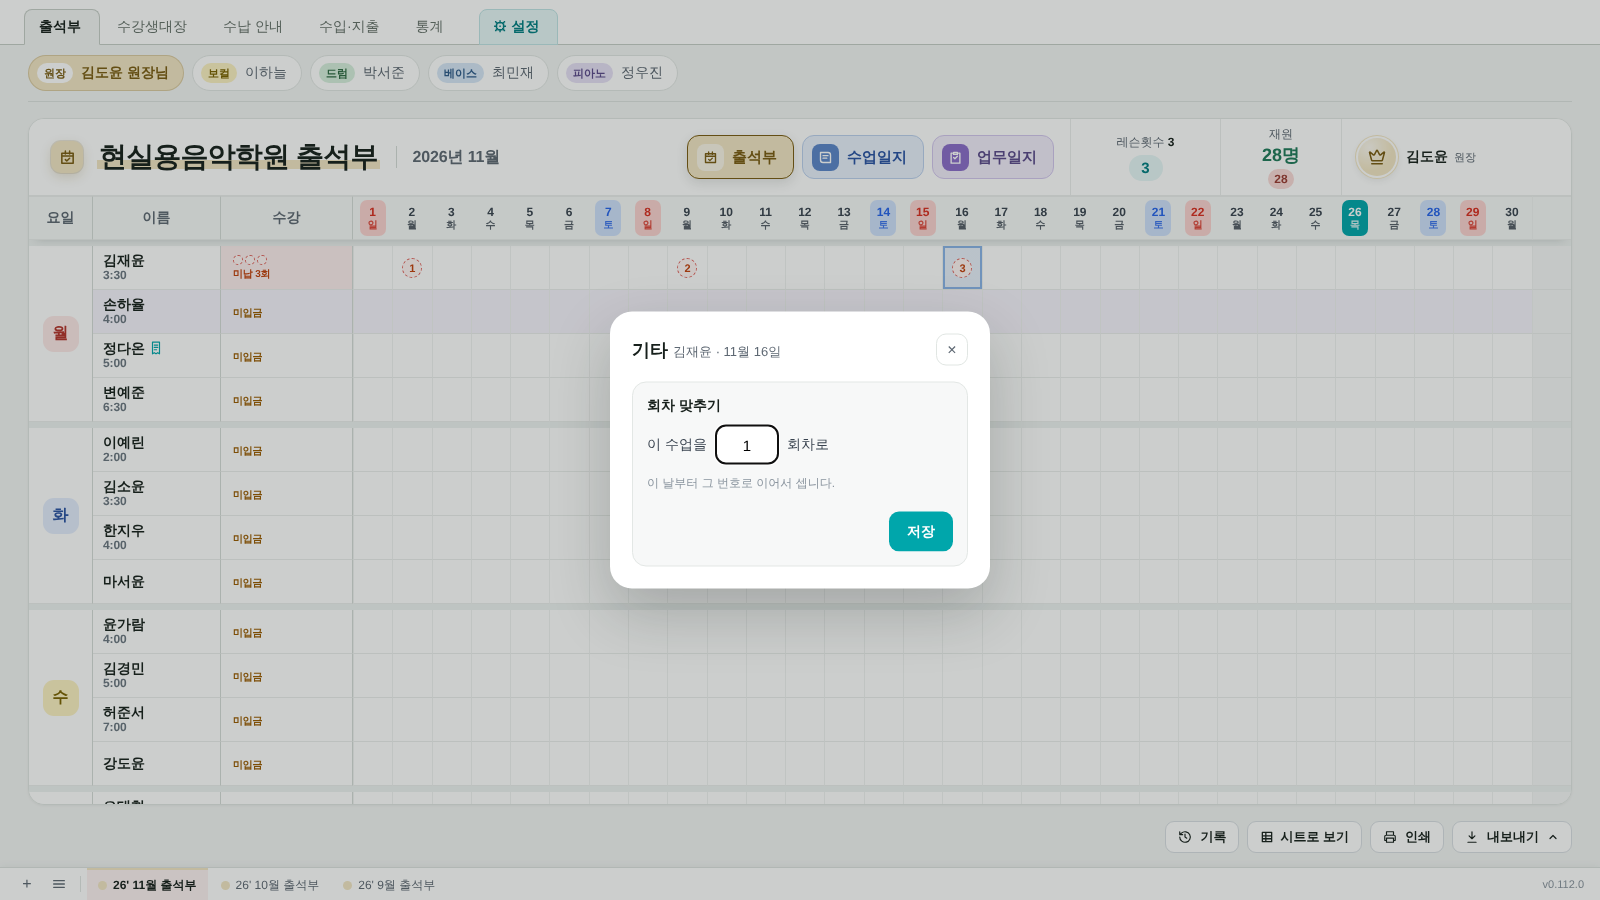
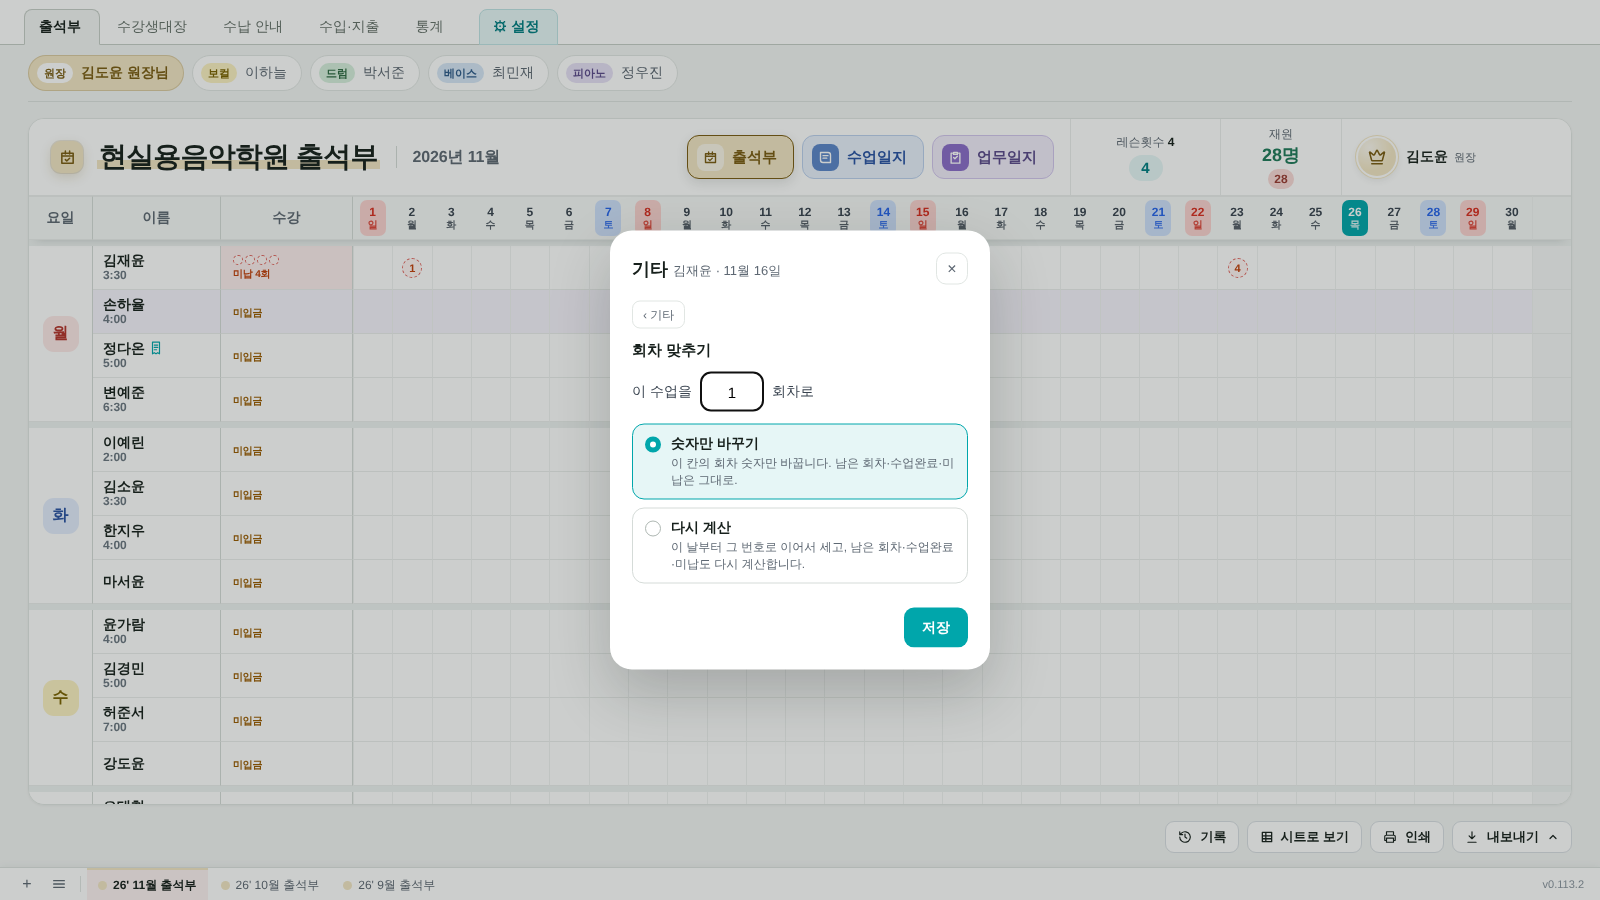
v0.113.2 출석부 칸 변경은 모두 기록
Claude-Session: https://claude.ai/code/session_014d9zEvtY8svh7Lt1eQQH6C

Changed region(s): [[0.375, 0.2489, 0.625, 0.7778]]

diff --git a/design/attendance.html b/design/attendance.html
@@ -246,7 +246,7 @@ html.bwp section[aria-label="출석부"] [style*="dashed"]{border-color:#000!imp
     <sc-for list="{{sheetTabs}}" as="t" hint-placeholder-count="5">
       <button type="button" class="{{t.cls}}" draggable="true" onDragStart="{{t.dragStart}}" onDragOver="{{t.dragOver}}" onDragLeave="{{t.dragLeave}}" onDrop="{{t.drop}}" onDragEnd="{{t.dragEnd}}" onClick="{{t.pick}}" onContextMenu="{{t.ctx}}" aria-pressed="{{t.on}}" style="{{t.style}}"><span style="{{t.dot}}"></span>{{t.name}}</button>
     </sc-for>
-    <span style="margin-left: auto; flex: none; align-self: center; padding: 0 4px 0 16px; font-size: 11px; color: #8A949E; white-space: nowrap">v0.113.1</span>
+    <span style="margin-left: auto; flex: none; align-self: center; padding: 0 4px 0 16px; font-size: 11px; color: #8A949E; white-space: nowrap">v0.113.2</span>
   </nav>
   <sc-if value="{{th.open}}" hint-placeholder-val="{{ false }}">
     <div class="noprint" onMouseDown="{{th.close}}" style="position: fixed; inset: 0; z-index: 70; background: rgba(23, 32, 28, 0.28)"></div>
@@ -3033,12 +3033,12 @@ class Component extends DCLogic {
     let a = {}, b = {};
     try { a = JSON.parse(oldJs || '{}') || {}; } catch (e) {}
     try { b = JSON.parse(newJs || '{}') || {}; } catch (e) {}
-    const KEY = /^(?:p|s|u|dp|L|LD|R|nm|n)?\d+$/, out = [], now = Date.now(), tab = this.tKey() || '', who = (this.writerName() || '원장님') + (this._logTag ? ' · ' + this._logTag : '');
+    const KEY = /^(?!by\d)/, out = [], now = Date.now(), tab = this.tKey() || '', who = (this.writerName() || '원장님') + (this._logTag ? ' · ' + this._logTag : '');
     this._logTag = '';
-    const nameOf = rid => { const s = this.students().find(x => String(x.id) === String(rid)); return s ? s.name.replace('$', '') : rid; };
+    const nameOf = rid => { if (rid === '_mk') return '보강 시간'; if (rid === '_ml') return '보강 날짜'; const s = this.students().find(x => String(x.id) === String(rid)); return s ? s.name.replace('$', '') : rid; };
     const keys = (x, y) => Object.keys(Object.assign({}, x || {}, y || {}));
     keys(a, b).forEach(ym => keys(a[ym], b[ym]).forEach(sk => { const A0 = (a[ym] || {})[sk] || {}, B0 = (b[ym] || {})[sk] || {};
-      keys(A0, B0).forEach(rid => { if (rid === '_mk' || rid === '_ml') return; const r1 = A0[rid] || {}, r2 = B0[rid] || {};
+      keys(A0, B0).forEach(rid => { const r1 = A0[rid] || {}, r2 = B0[rid] || {};
         keys(r1, r2).forEach(k => { if (!KEY.test(k)) return; const v1 = r1[k] == null ? '' : String(r1[k]), v2 = r2[k] == null ? '' : String(r2[k]);
           if (v1 !== v2) out.push({ id: 'C' + now + '-' + out.length, at: now, who: who, tab: tab, ym: ym, rid: rid, name: nameOf(rid), k: k, a: v1, b: v2 }); }); }); }));
     if (!out.length) return;

diff --git a/design/src/attendance.dc.html b/design/src/attendance.dc.html
@@ -240,7 +240,7 @@ html.bwp section[aria-label="출석부"] [style*="dashed"]{border-color:#000!imp
     <sc-for list="{{sheetTabs}}" as="t" hint-placeholder-count="5">
       <button type="button" class="{{t.cls}}" draggable="true" onDragStart="{{t.dragStart}}" onDragOver="{{t.dragOver}}" onDragLeave="{{t.dragLeave}}" onDrop="{{t.drop}}" onDragEnd="{{t.dragEnd}}" onClick="{{t.pick}}" onContextMenu="{{t.ctx}}" aria-pressed="{{t.on}}" style="{{t.style}}"><span style="{{t.dot}}"></span>{{t.name}}</button>
     </sc-for>
-    <span style="margin-left: auto; flex: none; align-self: center; padding: 0 4px 0 16px; font-size: 11px; color: #8A949E; white-space: nowrap">v0.113.1</span>
+    <span style="margin-left: auto; flex: none; align-self: center; padding: 0 4px 0 16px; font-size: 11px; color: #8A949E; white-space: nowrap">v0.113.2</span>
   </nav>
   <sc-if value="{{th.open}}" hint-placeholder-val="{{ false }}">
     <div class="noprint" onMouseDown="{{th.close}}" style="position: fixed; inset: 0; z-index: 70; background: rgba(23, 32, 28, 0.28)"></div>
@@ -3025,12 +3025,12 @@ class Component extends DCLogic {
     let a = {}, b = {};
     try { a = JSON.parse(oldJs || '{}') || {}; } catch (e) {}
     try { b = JSON.parse(newJs || '{}') || {}; } catch (e) {}
-    const KEY = /^(?:p|s|u|dp|L|LD|R|nm|n)?\d+$/, out = [], now = Date.now(), tab = this.tKey() || '', who = (this.writerName() || '원장님') + (this._logTag ? ' · ' + this._logTag : '');
+    const KEY = /^(?!by\d)/, out = [], now = Date.now(), tab = this.tKey() || '', who = (this.writerName() || '원장님') + (this._logTag ? ' · ' + this._logTag : '');
     this._logTag = '';
-    const nameOf = rid => { const s = this.students().find(x => String(x.id) === String(rid)); return s ? s.name.replace('$', '') : rid; };
+    const nameOf = rid => { if (rid === '_mk') return '보강 시간'; if (rid === '_ml') return '보강 날짜'; const s = this.students().find(x => String(x.id) === String(rid)); return s ? s.name.replace('$', '') : rid; };
     const keys = (x, y) => Object.keys(Object.assign({}, x || {}, y || {}));
     keys(a, b).forEach(ym => keys(a[ym], b[ym]).forEach(sk => { const A0 = (a[ym] || {})[sk] || {}, B0 = (b[ym] || {})[sk] || {};
-      keys(A0, B0).forEach(rid => { if (rid === '_mk' || rid === '_ml') return; const r1 = A0[rid] || {}, r2 = B0[rid] || {};
+      keys(A0, B0).forEach(rid => { const r1 = A0[rid] || {}, r2 = B0[rid] || {};
         keys(r1, r2).forEach(k => { if (!KEY.test(k)) return; const v1 = r1[k] == null ? '' : String(r1[k]), v2 = r2[k] == null ? '' : String(r2[k]);
           if (v1 !== v2) out.push({ id: 'C' + now + '-' + out.length, at: now, who: who, tab: tab, ym: ym, rid: rid, name: nameOf(rid), k: k, a: v1, b: v2 }); }); }); }));
     if (!out.length) return;

diff --git a/design/src/students.dc.html b/design/src/students.dc.html
@@ -169,7 +169,7 @@ html.bwp .printonly .pcell,html.bwp .printonly .phead{border-color:#000!importan
     </div>
   </main>
 
-  <div style="display: flex; justify-content: flex-end; padding: 8px 16px; border-top: 1px solid #DDE2DF; background: #FFFFFF; font-size: 11px; color: #8A949E">v0.113.1</div>
+  <div style="display: flex; justify-content: flex-end; padding: 8px 16px; border-top: 1px solid #DDE2DF; background: #FFFFFF; font-size: 11px; color: #8A949E">v0.113.2</div>
   <sc-if value="{{colsCfg.isOpen}}" hint-placeholder-val="{{ false }}">
     <div onMouseDown="{{colsCfg.close}}" style="position: fixed; inset: 0; z-index: 40; background: rgba(23, 32, 28, 0.32)"></div>
     <div role="dialog" aria-label="설정" onKeyDown="{{colsCfg.key}}" tabIndex="-1" id="cfgDlg" style="outline: none; position: fixed; left: 50%; top: 50%; transform: translate(-50%, -50%); z-index: 41; width: 940px; max-width: calc(100vw - 48px); max-height: calc(100vh - 48px); box-sizing: border-box; display: flex; flex-direction: column; background: #F6F8F7; border: 1px solid #DDE2DF; border-radius: 26px; box-shadow: 0 30px 80px rgba(23, 32, 28, 0.28); overflow: hidden">

diff --git a/design/students.html b/design/students.html
@@ -172,7 +172,7 @@ html.bwp .printonly .pcell,html.bwp .printonly .phead{border-color:#000!importan
     </div>
   </main>
 
-  <div style="display: flex; justify-content: flex-end; padding: 8px 16px; border-top: 1px solid #DDE2DF; background: #FFFFFF; font-size: 11px; color: #8A949E">v0.113.1</div>
+  <div style="display: flex; justify-content: flex-end; padding: 8px 16px; border-top: 1px solid #DDE2DF; background: #FFFFFF; font-size: 11px; color: #8A949E">v0.113.2</div>
   <sc-if value="{{colsCfg.isOpen}}" hint-placeholder-val="{{ false }}">
     <div onMouseDown="{{colsCfg.close}}" style="position: fixed; inset: 0; z-index: 40; background: rgba(23, 32, 28, 0.32)"></div>
     <div role="dialog" aria-label="설정" onKeyDown="{{colsCfg.key}}" tabIndex="-1" id="cfgDlg" style="outline: none; position: fixed; left: 50%; top: 50%; transform: translate(-50%, -50%); z-index: 41; width: 940px; max-width: calc(100vw - 48px); max-height: calc(100vh - 48px); box-sizing: border-box; display: flex; flex-direction: column; background: #F6F8F7; border: 1px solid #DDE2DF; border-radius: 26px; box-shadow: 0 30px 80px rgba(23, 32, 28, 0.28); overflow: hidden">

diff --git a/design/settings.html b/design/settings.html
@@ -304,7 +304,7 @@ html.bwp .printonly .pcell{border-color:#000!important}
     </div>
   </main>
 
-  <div style="display: flex; justify-content: flex-end; padding: 8px 16px; border-top: 1px solid #DDE2DF; background: #FFFFFF; font-size: 11px; color: #8A949E">v0.113.1</div>
+  <div style="display: flex; justify-content: flex-end; padding: 8px 16px; border-top: 1px solid #DDE2DF; background: #FFFFFF; font-size: 11px; color: #8A949E">v0.113.2</div>
 
   <sc-if value="{{ed.open}}" hint-placeholder-val="{{ false }}">
     <div class="noprint" onMouseDown="{{ed.close}}" style="position: fixed; inset: 0; z-index: 44; background: rgba(23, 32, 28, 0.32)"></div>

diff --git a/design/src/settings.dc.html b/design/src/settings.dc.html
@@ -301,7 +301,7 @@ html.bwp .printonly .pcell{border-color:#000!important}
     </div>
   </main>
 
-  <div style="display: flex; justify-content: flex-end; padding: 8px 16px; border-top: 1px solid #DDE2DF; background: #FFFFFF; font-size: 11px; color: #8A949E">v0.113.1</div>
+  <div style="display: flex; justify-content: flex-end; padding: 8px 16px; border-top: 1px solid #DDE2DF; background: #FFFFFF; font-size: 11px; color: #8A949E">v0.113.2</div>
 
   <sc-if value="{{ed.open}}" hint-placeholder-val="{{ false }}">
     <div class="noprint" onMouseDown="{{ed.close}}" style="position: fixed; inset: 0; z-index: 44; background: rgba(23, 32, 28, 0.32)"></div>

diff --git a/design/money.html b/design/money.html
@@ -131,7 +131,7 @@ html.bwp .printonly .pcell{border-color:#000!important}
         </div>
       </sc-if>
       </span>
-      <span style="font-size: 11px; color: #8A949E; padding-left: 6px">v0.113.1</span>
+      <span style="font-size: 11px; color: #8A949E; padding-left: 6px">v0.113.2</span>
     </div>
   </main>
 

diff --git a/design/notice.html b/design/notice.html
@@ -111,7 +111,7 @@ html.bwp .printonly .pcell{border-color:#000!important}
         </div>
       </sc-if>
       </span>
-      <span style="font-size: 11px; color: #8A949E; padding-left: 6px">v0.113.1</span>
+      <span style="font-size: 11px; color: #8A949E; padding-left: 6px">v0.113.2</span>
     </div>
   </main>
 

diff --git a/design/src/money.dc.html b/design/src/money.dc.html
@@ -127,7 +127,7 @@ html.bwp .printonly .pcell{border-color:#000!important}
         </div>
       </sc-if>
       </span>
-      <span style="font-size: 11px; color: #8A949E; padding-left: 6px">v0.113.1</span>
+      <span style="font-size: 11px; color: #8A949E; padding-left: 6px">v0.113.2</span>
     </div>
   </main>
 

diff --git a/design/src/notice.dc.html b/design/src/notice.dc.html
@@ -108,7 +108,7 @@ html.bwp .printonly .pcell{border-color:#000!important}
         </div>
       </sc-if>
       </span>
-      <span style="font-size: 11px; color: #8A949E; padding-left: 6px">v0.113.1</span>
+      <span style="font-size: 11px; color: #8A949E; padding-left: 6px">v0.113.2</span>
     </div>
   </main>
 

diff --git a/CLAUDE.md b/CLAUDE.md
@@ -8,7 +8,7 @@
 - **시험**: 글자·색·간격 같은 작은 수정은 시험 없이 바로 올린다. 계산·저장·입력 동작이 바뀌는 수정만 Playwright로 바꾼 부분을 짧게 시험(오프라인: db.js·supabase-js·xlsx 등은 빈 파일로 막고 file:// 로 열기).
 - **토큰 아끼기**: 답은 짧게(바뀐 버전 + 바뀐 내용 몇 줄). 파일은 통째로 읽지 말고 grep으로 필요한 줄만. 원인 찾기가 길어지면 원장님께 먼저 상황을 묻는다.
 - 원장님이 요청을 여러 개 모아 주시면 한 번에 고치고 한 번만 올린다.
-- 버전: 프로그램 전체 하나, 모든 페이지에 표시. 작은 수정은 끝자리, 기능 추가는 가운데 자리. **현재 `v0.113.1`**. db.js를 고치면 네 페이지 head의 `db.js?v=` 숫자도 올린다(GitHub 페이지 캐시 때문).
+- 버전: 프로그램 전체 하나, 모든 페이지에 표시. 작은 수정은 끝자리, 기능 추가는 가운데 자리. **현재 `v0.113.2`**. db.js를 고치면 네 페이지 head의 `db.js?v=` 숫자도 올린다(GitHub 페이지 캐시 때문).
 - 템플릿 `sc-for`는 글자·숫자 목록을 못 그림(undefined) → 항목을 {t} 객체로 감싼다. `<table>` 안에 sc-for를 넣으면 브라우저가 밖으로 빼 버리므로 표는 div(display: table/table-row/table-cell)로 만든다.
 - 페이지 runtime의 `setState(p)`는 바로 다시 그리고 **두 번째 인자(콜백)를 부르지 않는다** → 뒤에 할 일은 setState 다음 줄에 쓴다.
 - 커밋 메시지 끝에 정해진 Co-Authored-By/Claude-Session 줄을 붙인다(시스템 안내대로).
@@ -107,7 +107,7 @@
 - 출결과 수납이 같이 있는 칸은 바탕색 없이 회차 동그라미 오른쪽 위 작은 ₩(수납 금색 #B8860B / 미납 수납 빨강, `pdot`).
 - 수납: 0 또는 수납 버튼 → 수납 창(제목 줄 = ₩ 아이콘·이름·반 칩 … 오른쪽에 수납 날짜 칸·×, 수강생대장 정보는 없음, 수강료~혜택~현금영수증 안내 상자(같은 연회색 둥근 상자), 아래 버튼 줄은 상자와 조금 띄움(환불·수납 취소·수정 저장, '닫기' 버튼 없음 — 오른쪽 위 ×)) → 그 칸에 ₩, 'academy.payments'. 수납된 칸은 '수납 수정'(날짜 변경·취소). 같은 날 여러 건 수납: 수납 창 위 'N번째 · 금액'(실제 받은 금액, 혜택 적용) 버튼으로 건 고르기(건별 수정·취소) + '+ 같은 날 추가 수납'(기록만 한 건 더, 칸은 ₩2·₩3). 건마다 수강권이 하나씩 들어감(`PAYL`). Delete로 칸을 지우면(모두 지우기·수납만 지우기·₩ 다시 눌러 끄기 모두) 그 칸 날짜의 수납 기록도 모두 지움(`dropPays`). 새 수납 때 칸에 ₩ 없는데 같은 날 예전 기록이 있으면 먼저 지움. 반 변경 차액: 수강권 쓰는 중에 회당 수업료가 바뀌면(`unitOn`, 수강생대장 수강료 변경의 적용 날짜) 남은 회차 × 차이 = 차액 → 수강 칸 빨간 '차액 N원 미납' + 남은 동그라미 주황 테두리, 수납 창 맨 위 '차액 수납 N원' 버튼 → 그 칸 'dp'+날짜 = 금액, 주황 ₩, 수강권은 그대로, '차액 수납완료 (날짜)' 초록. 차액 수납한 칸을 다시 누르면 '차액 수납 N원 취소'(두 번 눌러 확인). 내려가면(음수) '다음 수납 때 N원 빼 주기' 표시만. 엑셀은 '차액입금'(옆 빈칸으로 넘침). 수납 창의 반·회당 수업료도 누른 날짜 기준. 휴원·퇴원 줄도 그 달에는 재원생과 같은 일반 수납. 달이 지나면 출석부에서 사라지고, 남은 미납은 수강생대장 휴원·퇴원 탭 '수납' 버튼(미납 있을 때만)으로 받음 → 'academy.payments'(kind 'late') + 휴원·퇴원한 달 그 원생 줄에 'L'+날짜(수업 미납)·'LD'+날짜=금액(차액), 수강 칸에 '수납완료 (날짜)'. 미납 정리(원장님만): 출석부 수납 창·수강생대장 수납 창 제목 줄 × 왼쪽 빨간 '미납 정리'(두 번 눌러 확인, 정리 뒤엔 '미납 정리 취소') → 'academy.writeOffs' / app_settings 'writeOffs', 수강 칸에 회색 '미납 정리 (날짜)'. 수강생대장이 쓰는 미납 정보(n·diffLeft·unit·rid·sm)는 출석부가 'academy.tickets'에 써 둠.
 - 이름 클릭 → 수업 정보 간단 수정(적용 날짜·요일·시간, 그 달 전체에 적용) + 휴원/퇴원 버튼 + 제목 줄 × 왼쪽 '기록' 버튼(수강생대장 변경 기록과 같은 내용을 읽기만 함, `histTimeline`). 휴원·퇴원 원생은 그 달 맨 아래 묶음으로(이름 아래 요일 밑에 '11/5 휴원'·'11/5 퇴원' 휴원 주황·퇴원 빨강 글씨, 이름 누르면 복귀, 복귀 날짜 기본값은 오늘과 휴원 날짜 중 늦은 날), 다음 달부터는 안 나옴. 지금 상태 = 마지막으로 처리한 휴원·퇴원·복귀 기록(날짜순 아님). **휴원·퇴원 기간 칸**: 휴원·퇴원 날짜 ~ 복귀·재등록 전날(`statusLocks`, 줄마다 `_rowLock`)은 빗금 없음. 칸을 누르거나 1~4를 누르면 수납 창이 열리고(`lockNote`, 미납·차액·그 칸 수납 기록이 없으면 아무 창도 안 뜸), 창 안 '휴원·퇴원 기간 · 출결 입력' [출석][결석][보강][연기] 버튼으로만 출결을 넣음(`forceMark`). 강사 이동으로 가려진 칸(`_rowHide`)도 같은 빗금, 누르면 '다른 강사 칸 — ○○ 강사님 탭에서 입력·수정' 안내창(출결·수납 모두 막힘, 선택도 안 됨). **휴원·퇴원 날짜 고치기**: 휴원·퇴원 줄 이름 → 복귀·재등록 창(수강생대장 휴원·퇴원 탭 복귀·재등록 창도) 안 '휴원(퇴원) 날짜 고치기' + '날짜 저장' → 같은 기록의 날짜만 바꿈(`saveStatusDate`, DB는 `academy.updateStatusDate`). 수강생대장 '기록' 창 맨 위 '휴원·퇴원 기간 고치기': 지난 기간까지 모두(최근 것이 위) 한 줄씩 휴원(퇴원) 날짜 ~ 복귀(재등록) 날짜(지금 휴원 중이면 '~ 지금까지') + 줄마다 '기간 저장'. 수강생대장 기록 목록의 휴원·퇴원·복귀는 출석부와 같이 쓰는 기록(statusShared)으로 보여 줌(출석부에서 처리한 것·고친 날짜 포함). 출석부에서 휴원·퇴원·복귀·재등록할 때는 '○○ 원생을 2026년 M월 D일부로 휴원 처리합니다. 이 날짜가 맞습니까?' 확인창(`stConfirm`)을 거친 뒤 처리(수강생대장의 복귀·재등록·퇴원도 같은 확인창 `stConf`). 강사 변경은 예전 강사 탭 '이동' 묶음 + 새 강사 탭에 이어서(옮기기 전 회차를 넘겨받아 계속). 칸 주인(`cellMine`): 출결 칸을 적거나 바꾸는 순간 그 칸에 'by'+날짜 = 보고 있던 강사 탭 이름을 적음(`stampCells`) → 표시 있는 칸은 그 강사, 표시 없이 적힌 예전 칸은 예전 강사, 빈 칸은 옮긴 날 전이면 예전 강사·이후면 새 강사. 각 탭은 자기 칸만 보이고·입력되고(`selCells`가 `_rowHide`로 거름)·레슨횟수에 들어감. **수강(회차·미납·차액·수납)은 이동하는 순간 새 강사에게 통째로 넘어감**: 예전 강사 '이동' 줄은 출결 칸(월급용)만 남고 수강 칸은 회색 '수강 → 새 강사'(동그라미·미납·차액 없음, 미납 정보도 0). 새 강사 탭이 이동 전 회차·미납·차액을 이어받아 계산하고 돈도 거기서 받음.
-- **변경 기록**: 맨 아래 오른쪽 '기록' 버튼(인쇄 왼쪽) → 오른쪽 칸. 출결·수납 칸이 바뀔 때마다 한 줄씩 'academy.cellLog'(언제·누가·강사 탭·달·줄·원생·칸·전→후, `logCells`) / Supabase cell_log(009 SQL, 최근 2만 줄 불러옴). 같은 사람·탭에서 3분 안에 이어진 변경은 한 묶음(`histVersions`). 범위: 이 출석부 / 모든 강사(이 달, 원장님만) / 이 원생(고른 칸의 원생). 묶음을 누르면 그 탭·달로 가서 바뀐 칸이 초록(#BDEBC8) + 그 칸으로 스크롤(칸 없는 EV 기록은 그 원생 이름으로, .arow는 display: contents라 이름 span·칸 button으로 스크롤). 수업 변경(요일·시간)·휴원·퇴원·복귀·날짜 고침·신규 등록·원생 정보 수정·삭제도 같은 기록에 k='EV' 한 줄(설명 글)로 남김 — db.js가 lessonChanges/statusChanges 쓰기를 전후 비교(`evDiff`)·addStudent/saveEdit/deleteStudent에서 `addEv`, tab = 담당 강사. 되돌리기는 아직 없음.
+- **변경 기록**: 맨 아래 오른쪽 '기록' 버튼(인쇄 왼쪽) → 오른쪽 칸. 출석부 저장 칸이 바뀔 때마다(칸 주인 표시 by 빼고 모두 — 출결·수납·차액·환불·회차 맞추기·보강 시간 등) 한 줄씩 'academy.cellLog'(언제·누가·강사 탭·달·줄·원생·칸·전→후, `logCells`) / Supabase cell_log(009 SQL, 최근 2만 줄 불러옴). 같은 사람·탭에서 3분 안에 이어진 변경은 한 묶음(`histVersions`). 범위: 이 출석부 / 모든 강사(이 달, 원장님만) / 이 원생(고른 칸의 원생). 묶음을 누르면 그 탭·달로 가서 바뀐 칸이 초록(#BDEBC8) + 그 칸으로 스크롤(칸 없는 EV 기록은 그 원생 이름으로, .arow는 display: contents라 이름 span·칸 button으로 스크롤). 수업 변경(요일·시간)·휴원·퇴원·복귀·날짜 고침·신규 등록·원생 정보 수정·삭제도 같은 기록에 k='EV' 한 줄(설명 글)로 남김 — db.js가 lessonChanges/statusChanges 쓰기를 전후 비교(`evDiff`)·addStudent/saveEdit/deleteStudent에서 `addEv`, tab = 담당 강사. 되돌리기는 아직 없음.
 - **월 마감**(강사 탭·달마다 따로, 원장님만): MEMO 아래 맨 오른쪽 '2026년 [달]월 마감' 버튼(설명 글 없음) → 안내창 → 그 탭 원생들의 그 달 마지막 수강권 상태(회차·미납·차액·대기 수강권)를 저장('academy.monthClose' / app_settings 'monthClose', `readCloses`/`saveClose`). 다음 달부터는 가장 최근 마감 상태에서 출발해 계산(`closeFrom`)하므로, 마감한 달을 고쳐도 그 달 안에서만 바뀜. '마감 풀기'도 안내창. 마감된 달 칸을 고치면 안내창 한 번(`closedNote`). 이동 원생은 새 강사 탭 마감 상태를 먼저 씀.
 - **MEMO**(표 맨 아래, 출석 표와 24px 회색 띠로 떨어짐, 예전 '비고', 'MEMO' 글자(12px) 칸 = 요일 칸 폭 64px, 세로줄은 글자 칸 오른쪽 테두리라 요일 칸 줄과 같은 자리): 강사 탭마다 글 하나, 달이 바뀌어도 그대로 남음(직접 지우고 채움). 칸을 나가면 저장. 'academy.attMemo'{강사: 글} / log_notes kind 'attmemo'(ym '-', k1 강사) — 원장·강사 모두 서버에 저장, 모두가 같이 봄(예전 app_settings 'attMemo'와 브라우저에만 있던 메모는 'academy.memoUp'으로 한 번 올림).
 - **흑백 인쇄**(인쇄 설정 '흑백' = '색을 회색·무늬로 바꿔 인쇄', html.bwp): 색 대신 회색·무늬. 칸·이름·날짜 머리글에 `data-bw` 표시(칸 x.bw: pro·abs·unpaid·free·half·pay / 이름 r.bw: pro / 머리글 h.bw: off·short·sun·sat·today) → 전문반 = 옅은 회색 줄 + 이름 앞 네모 '전', 결석 = 검정 꽉 찬 동그라미에 흰 숫자, 미납 = 검정 점선, 무료 = 빗금, 50% = 점무늬, 수납 ₩ 굵은 검정, 휴일·일요일 머리글 = 진한 회색 + 흰 글자, 단축수업 = 중간 회색, 토요일 = 옅은 회색, 오늘 = 굵은 검정 테두리. 수강 칸 동그라미(dd.bw, `dbw`): 출석 d-on 검정(라벤더·유형 색 모두) · 결석 d-abs 굵은 테두리 · 무료 d-free 빗금 · 50% d-half 반만 검정. 새 색 표시를 만들면 흑백 표시도 같이 정한다.
